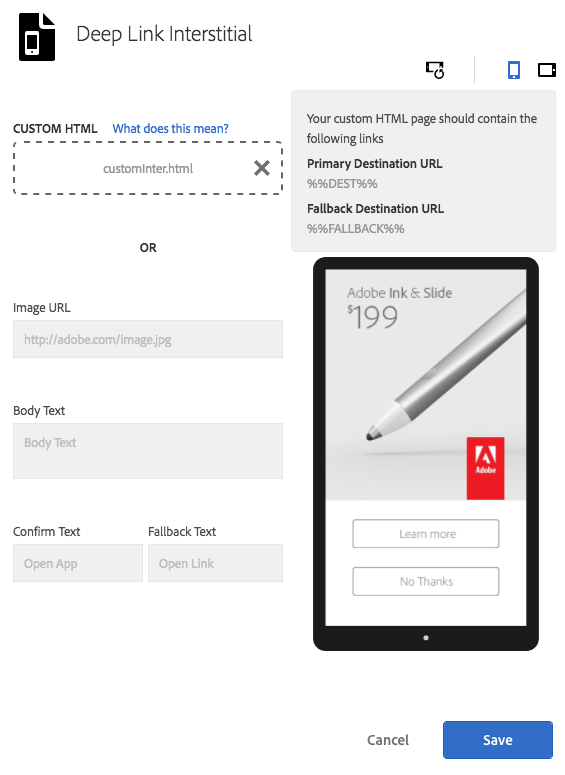
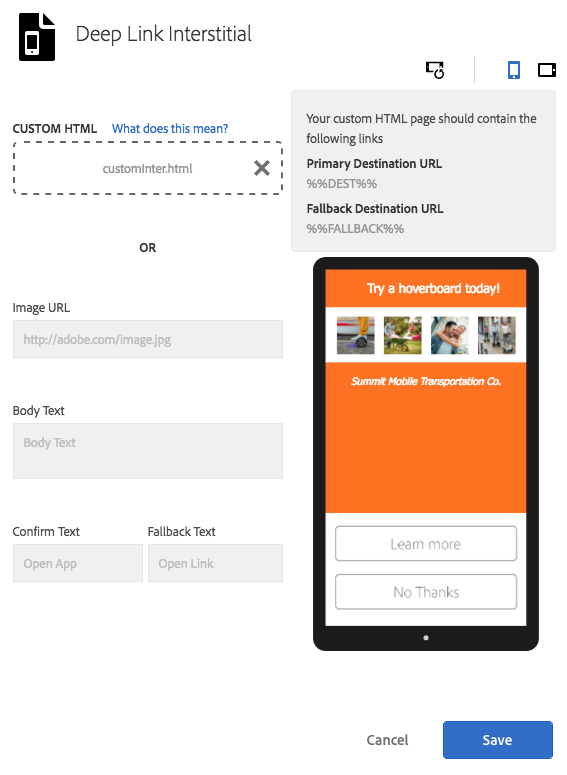
Add files via upload

diff --git a/wiki-images/L3882/CustomInter/customInter.html b/wiki-images/L3882/CustomInter/customInter.html
@@ -9,8 +9,15 @@
 			-webkit-touch-callout:none;-webkit-user-select:none;-moz-user-select:none;-ms-user-select:none;user-select:none; }
 		a { text-decoration:none; }
 		img { display:none; }
-		.button-large { display:block;margin-left:auto;margin-right:auto;margin-top:30px; }		
-		.button-container { position:absolute;bottom:0px;right:0px;left:0px;display:block;background-color:#FFF;height:200px; }
+		.button-large { 
+			max-width: calc(50% - 20px);
+			display:inline-block;margin-left:auto;margin-right:auto;
+			margin-top:20px; 
+		}		
+		.button-container { 
+			position:absolute;bottom:0px;right:0px;left:0px;
+			display:block;background-color:#FFF;height:100px; 
+		}
 
 
 .pageStyles {
@@ -25,7 +32,8 @@
 .imageBar {
   background-color: white;
   width: 100%;
-  padding: 10px;
+  padding-top: 10px;
+  padding-bottom: 5px;
 }
 
 .imageWrapper {
@@ -44,12 +52,12 @@
 }
 
 .imageBox {
+	margin: 5px;
   width: calc(25% - 20px);  
   display: inline-block;
 }
 
 .imageStyle {
-  padding: 10px;
   width: 100%;
   display: block;
 }
@@ -65,9 +73,12 @@
   transform: translateX(-50%);
 }
 
-@media (min-width:620px) {
-	.button-container { display:block;height:120px; }
-	.button-large { display: inline-block; }
+@media (max-width:620px) and (orientation:portrait) {
+	.button-container { display:block;height:180px; }
+	.button-large { 
+		display: block;
+		max-width: calc(100% - 20px);
+	}
 }
 
 .downloadNow {
@@ -100,7 +111,7 @@
 </head>
 <body>
   <div class='pageStyles'>
-    <div class='title'>Summit Mobile Transportation Co.</div>
+    <div class='title'>Try a hoverboard today!</div>
     <div class='imageBar'>
       <div class='imageWrapper'>
         <div class='imageBox'>
@@ -118,7 +129,7 @@
       </div>
     </div>
     <div class='testamonial'>
-      Try a hoverboard today!
+      Summit Mobile Transportation Co.
     </div>
   </div>
 <div class="button-container">
